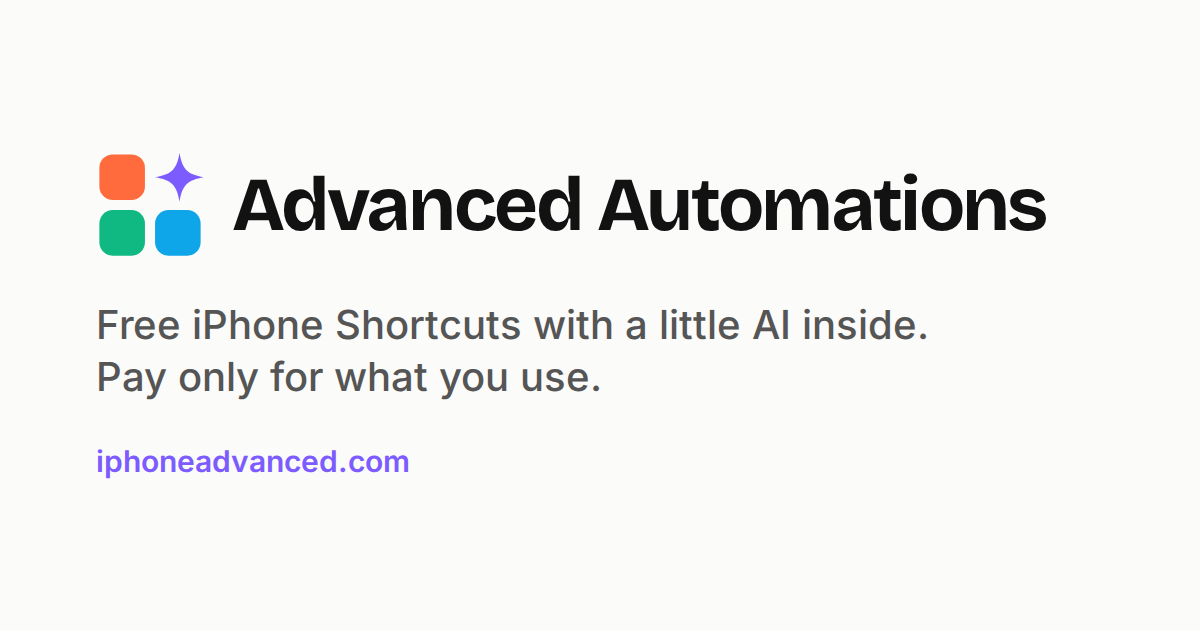
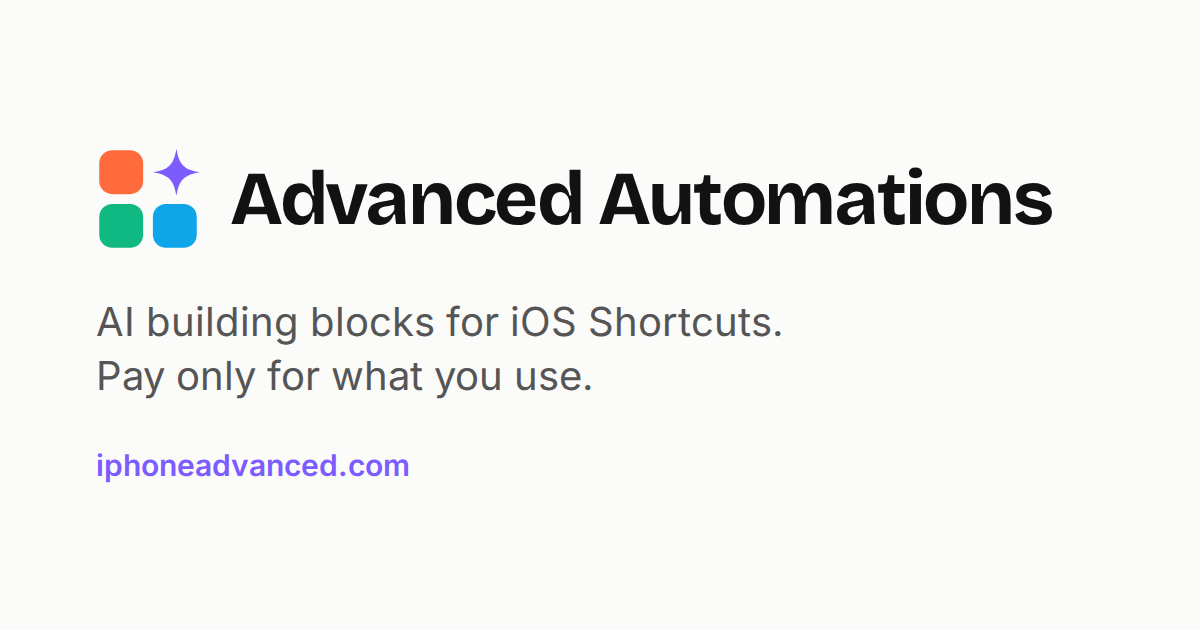
Lead marketing with AI building blocks for iOS Shortcuts
Homepage hero, sections, nav, meta and OG image now pitch the six blocks
first, with recipes showing how they snap together and the ready-made
shortcuts as a secondary section. Catalog splits blocks from ready-made
shortcuts. Also defines the missing .c-blue color used by Pick a Category.

Claude-Session: https://claude.ai/code/session_01DLqfCcLREcWjA8c6SMs42Y

diff --git a/src/views.js b/src/views.js
@@ -42,16 +42,16 @@ export function layout({ title, user, body, active = '' }) {
 <head>
 <meta charset="utf-8">
 <meta name="viewport" content="width=device-width, initial-scale=1">
-<title>${e(title ? `${title} · Advanced Automations` : 'Advanced Automations: free AI Shortcuts for iPhone')}</title>
-<meta name="description" content="Free iPhone Shortcuts with a little AI inside. Tap Get, add it to the Shortcuts app, and run it from anywhere. No subscription.">
+<title>${e(title ? `${title} · Advanced Automations` : 'Advanced Automations: AI building blocks for iOS Shortcuts')}</title>
+<meta name="description" content="AI building blocks for iOS Shortcuts. Drop Ask AI, Transcribe Audio, Pick a Category and more into any shortcut you build. Free to add, under a cent a run, no subscription.">
 <link rel="icon" href="/favicon.svg" type="image/svg+xml">
 <link rel="apple-touch-icon" href="/apple-touch-icon.png">
 <link rel="manifest" href="/site.webmanifest">
 <meta name="theme-color" content="#fbfbfa">
 <meta property="og:type" content="website">
 <meta property="og:site_name" content="Advanced Automations">
-<meta property="og:title" content="${e(title ? `${title} · Advanced Automations` : 'Advanced Automations: free AI Shortcuts for iPhone')}">
-<meta property="og:description" content="Free iPhone Shortcuts with a little AI inside. Tap Get, add it to the Shortcuts app, and run it from anywhere. No subscription.">
+<meta property="og:title" content="${e(title ? `${title} · Advanced Automations` : 'Advanced Automations: AI building blocks for iOS Shortcuts')}">
+<meta property="og:description" content="AI building blocks for iOS Shortcuts. Drop Ask AI, Transcribe Audio, Pick a Category and more into any shortcut you build. Free to add, under a cent a run, no subscription.">
 <meta property="og:image" content="https://iphoneadvanced.com/og-image.png">
 <meta property="og:image:width" content="1200">
 <meta property="og:image:height" content="630">
@@ -64,7 +64,7 @@ export function layout({ title, user, body, active = '' }) {
   <div class="wrap row">
     <a class="brand" href="/">${LOGO}<span>Advanced Automations</span></a>
     <nav class="nav">
-      ${nav('/automations', 'Shortcuts')}
+      ${nav('/automations', 'Blocks')}
       ${nav('/pricing', 'Pricing')}
       ${user ? `<a class="btn btn-sm" href="/account">Account</a>` : `<a class="btn btn-sm" href="/login">Log in</a>`}
     </nav>
@@ -95,66 +95,111 @@ const tile = (a, extra = '') => `<a class="tile c-${a.color}${extra}" href="/aut
 export const starterCents = (micros) => `${Math.round(micros / 10_000)}¢`;
 const installHref = (a, user) => (user ? `/automations/${a.slug}/install` : `/signup?next=${encodeURIComponent(`/automations/${a.slug}/install`)}`);
 
+const blockChip = (a, note = '') => `<li class="step blk c-${a.color}">${icon(a.icon)}<span>${e(a.name)}${note ? ` <small>${e(note)}</small>` : ''}</span></li>`;
+const plainStep = (label) => `<li class="step">${e(label)}</li>`;
+
+// Example shortcuts built from the blocks, shown on the landing page. Each step is either a
+// built-in Shortcuts action (a string) or [block slug, what you tell it].
+const RECIPES = [
+  { name: 'Sort my inbox', how: 'Share an email and get pinged only when it matters.', steps: ['Receive email from Share Sheet', ['pick-a-category', '"Urgent, Needs reply, FYI"'], 'If Result is Urgent', 'Show Notification'] },
+  { name: 'Receipt to log', how: 'Snap a receipt and keep a running expense note.', steps: ['Take Photo', ['pull-out-details', '"total, date, store"'], 'Get Dictionary Value total', 'Append to Note'] },
+  { name: 'Voice memo to-dos', how: 'Ramble for a minute, keep only the action items.', steps: ['Record Audio', ['transcribe-audio'], ['ask-ai', '"List only the action items"'], 'Create Reminder'] },
+  { name: 'What is this error?', how: 'Back Tap on any screen for a plain answer.', steps: ['Take Screenshot', ['ask-about-image', '"What does this error mean?"'], 'Show Result'] },
+];
+
+const recipeCard = (r) => `
+  <div class="recipe">
+    <h3>${e(r.name)}</h3>
+    <p class="small muted">${e(r.how)}</p>
+    <ol class="steps">${r.steps.map((s) => (Array.isArray(s) ? blockChip(findAutomation(s[0]), s[1]) : plainStep(s))).join('')}</ol>
+  </div>`;
+
 export function landing({ user, starterMicros }) {
-  const [explain, reply, meeting, calories, sum, tone, voice, remind, receipt, translate, scam, brief] = [
-    'explain-this', 'reply-drafter', 'meeting-notes', 'snap-calories', 'summarize-anything', 'tone-shifter',
-    'voice-to-notes', 'smart-reminders', 'receipt-reader', 'translate-selection', 'scam-check', 'morning-brief',
-  ].map(findAutomation);
+  const blocks = AUTOMATIONS.filter((a) => a.block);
+  const ask = findAutomation('ask-ai');
+  const ready = ['meeting-notes', 'reply-drafter', 'snap-calories', 'summarize-anything', 'explain-this', 'scam-check', 'translate-selection', 'receipt-reader'].map(findAutomation);
   return layout({
     user,
     body: `
 <section class="hero wrap">
   <div>
-    <h1>Make your iPhone do the <mark>boring bits.</mark></h1>
-    <p class="lede">Free Shortcuts with a little AI inside. Tap Get, add it to the Shortcuts app, and run it from the Share Sheet, Siri or the Action Button.</p>
+    <h1>AI building blocks for <mark>iOS Shortcuts.</mark></h1>
+    <p class="lede">Drop Ask AI, Transcribe Audio, Pick a Category and more into any shortcut you build. The blocks are free. Each run costs a fraction of a cent.</p>
     <div class="cta">
-      <a class="btn btn-lg" href="#shortcuts">Browse shortcuts</a>
-      <a class="link" href="#how">How it works →</a>
+      <a class="btn btn-lg" href="#blocks">Get the blocks</a>
+      <a class="link" href="#recipes">See what you can build →</a>
     </div>
     ${starterMicros ? `<p class="small muted hero-note">Sign in with Apple and your first ${starterCents(starterMicros)} of AI is on us.</p>` : ''}
   </div>
-  <div class="tiles" aria-label="Featured shortcuts">
-    ${tile(meeting)}${tile(reply, ' tilt-r')}${tile(calories)}
-    ${tile(sum, ' tilt-l')}${tile(voice)}${tile(translate)}
-    <div class="tile tile-result"><div><b>Summarize My Meeting Notes</b>Launch locked for Oct 14. Marcus fixes the pricing page by Friday. Jen drafts the launch email Monday.</div><small>Whisper + Llama 3.3 70B · 2.7¢</small></div>
-    ${tile(explain, ' tilt-r')}
+  <div class="tiles" aria-label="The building blocks">
+    ${blocks.map((a, i) => tile(a, i === 1 ? ' tilt-r' : i === 3 ? ' tilt-l' : '')).join('')}
+    <div class="tile tile-result tile-recipe">
+      <span class="small recipe-label">Your shortcut</span>
+      <ol class="steps">${plainStep('Get Clipboard')}${blockChip(ask, '"Summarize in three lines"')}${plainStep('Show Result')}</ol>
+      <small>${e(MODELS[ask.model].label)} · ~${cents(ask.typicalCost)} a run</small>
+    </div>
   </div>
 </section>
 
-<section class="wrap section center" id="shortcuts">
-  <h2>Pick one. It’s on your phone in a minute.</h2>
-  <p class="muted">Every shortcut is free. You only pay for the AI it uses, usually well under a cent a run.</p>
-  <div class="grid">${[meeting, reply, calories, sum, voice, explain, remind, translate, tone, receipt, brief, scam].map(card).join('')}</div>
+<section class="wrap section center" id="blocks">
+  <h2>Six blocks. Any shortcut you can dream up.</h2>
+  <p class="muted">Each block is an action you add with Run Shortcut. Pass it what to work on and your instructions, and it hands the answer to your next step.</p>
+  <div class="grid grid-3">${blocks.map(card).join('')}</div>
+</section>
+
+<section class="wrap section center" id="recipes">
+  <h2>Snap them together.</h2>
+  <p class="muted">A few shortcuts people build in a couple of minutes. Colored steps are blocks; the rest come with the Shortcuts app.</p>
+  <div class="recipes">${RECIPES.map(recipeCard).join('')}</div>
 </section>
 
 <section class="wrap how" id="how">
-  <div><b>1</b><h3>Tap Get</h3><p>Pick a shortcut and sign in with Apple. It takes one tap.</p></div>
-  <div><b>2</b><h3>Add to Shortcuts</h3><p>The Shortcuts app asks for your key. We’ve already copied it, so just paste.</p></div>
+  <div><b>1</b><h3>Get the blocks</h3><p>Tap Get on the ones you want and sign in with Apple. Each block gets its own key, already copied.</p></div>
+  <div><b>2</b><h3>Drop them in</h3><p>In any shortcut, add Run Shortcut and pick a block. Pass it a List: what to work on, then your instructions.</p></div>
   <div><b>3</b><h3>Run it anywhere</h3><p>Share Sheet, Back Tap, Action Button or Siri. Top up whenever your credit runs low.</p></div>
 </section>
 
+<section class="wrap section center" id="shortcuts">
+  <h2>Rather not build? Grab one ready-made.</h2>
+  <p class="muted">Finished shortcuts with the same AI inside. Add one and run it as is.</p>
+  <div class="grid">${ready.map(card).join('')}</div>
+  <p class="see-all"><a class="link" href="/automations">See everything →</a></p>
+</section>
+
 <section class="wrap stats">
-  <div><b>$0</b><p>for every shortcut, forever</p></div>
+  <div><b>$0</b><p>for every block and shortcut, forever</p></div>
   <div><b>${starterMicros ? starterCents(starterMicros) : '&lt;1¢'}</b><p>${starterMicros ? 'free credit when you sign in with Apple or Google' : 'typical cost of one run'}</p></div>
-  <div><b>&lt;1¢</b><p>typical cost of one run, no subscription</p></div>
+  <div><b>0</b><p>subscriptions. Credit never expires.</p></div>
 </section>`,
   });
 }
 
 export function catalog({ user, category }) {
-  const list = category ? AUTOMATIONS.filter((a) => a.category === category) : AUTOMATIONS;
   const chip = (c, label) => `<a class="chip" href="/automations${c ? `?category=${encodeURIComponent(c)}` : ''}"${(category || '') === c ? ' aria-current="true"' : ''}>${label}</a>`;
+  const grid = (list, extra = '') => `<div class="grid${extra}">${list.map(card).join('')}</div>`;
+  const body = category
+    ? `<section class="wrap">${grid(AUTOMATIONS.filter((a) => a.category === category))}</section>`
+    : `<section class="wrap">
+  <h2 class="cat-h">Building blocks</h2>
+  <p class="muted">Add them to your own shortcuts with Run Shortcut.</p>
+  ${grid(AUTOMATIONS.filter((a) => a.block), ' grid-3')}
+</section>
+<section class="wrap section-sm">
+  <h2 class="cat-h">Ready-made shortcuts</h2>
+  <p class="muted">Finished shortcuts you can run as is.</p>
+  ${grid(AUTOMATIONS.filter((a) => !a.block))}
+</section>`;
   return layout({
-    title: 'Shortcuts',
+    title: 'Blocks',
     user,
     active: '/automations',
     body: `
 <section class="wrap page-head center">
-  <h1>Shortcuts</h1>
-  <p class="lede">All free. Tap one, then Add to Shortcuts. You only pay for the AI each run uses.</p>
+  <h1>AI blocks for Shortcuts</h1>
+  <p class="lede">All free. Drop a block into any shortcut you build, or grab a ready-made one. You only pay for the AI each run uses.</p>
   <div class="chips">${chip('', 'All')}${CATEGORIES.map((c) => chip(c, c)).join('')}</div>
 </section>
-<section class="wrap"><div class="grid">${list.map(card).join('')}</div></section>`,
+${body}`,
   });
 }
 
@@ -179,7 +224,7 @@ export function automationDetail({ user, a, apiUrl, starterMicros }) {
     active: '/automations',
     body: `
 <section class="wrap detail">
-  <a class="link small" href="/automations">← All shortcuts</a>
+  <a class="link small" href="/automations">← ${a.block ? 'All blocks' : 'All blocks and shortcuts'}</a>
   <div class="detail-head c-${a.color}">
     <span class="big-ic">${icon(a.icon)}</span>
     <div class="grow">
@@ -289,11 +334,11 @@ export function pricing({ user }) {
     body: `
 <section class="wrap page-head center">
   <h1>Simple pricing</h1>
-  <p class="lede">Automations are free. AI usage comes out of a balance you top up. No subscription, and credit never expires.</p>
+  <p class="lede">Every block and shortcut is free. AI usage comes out of a balance you top up. No subscription, and credit never expires.</p>
 </section>
 <section class="wrap narrow">
   <div class="stats">
-    <div><b>$0</b><p>for every automation</p></div>
+    <div><b>$0</b><p>for every block</p></div>
     <div><b>&lt;1¢</b><p>typical run</p></div>
     <div><b>$5</b><p>smallest top-up</p></div>
   </div>
@@ -333,7 +378,7 @@ export function authPage({ mode, error, email = '', next = '', providers = [], s
   <div class="auth-tiles" aria-hidden="true">${(getting ? [getting] : AUTOMATIONS.slice(0, 4)).map((a) => `<span class="mini c-${a.color}">${icon(a.icon)}</span>`).join('')}</div>
   <form class="auth-card" method="post" action="/${mode}">
     <h1>${getting ? `Get ${e(getting.name)}` : isLogin ? 'Welcome back' : 'Create your account'}</h1>
-    <p class="muted">${getting ? `Sign in once and it’s yours.${credit}` : isLogin ? 'Log in to manage your balance and shortcuts.' : `Every shortcut is free.${credit}`}</p>
+    <p class="muted">${getting ? `Sign in once and it’s yours.${credit}` : isLogin ? 'Log in to manage your balance and blocks.' : `Every block and shortcut is free.${credit}`}</p>
     ${error ? `<p class="alert" role="alert">${e(error)}</p>` : ''}${social}
     <input type="hidden" name="next" value="${e(next)}">
     <label>Email<input name="email" type="email" autocomplete="email" required value="${e(email)}"></label>
@@ -358,7 +403,7 @@ export function account({ user, keys, history, linked = [], newKey, notice, bill
       <span class="mini c-violet">${icon('key')}</span>
       <div class="grow"><strong>${e(k.name)}</strong><div class="small muted">${e(k.prefix)}… · created ${date(k.created_at)}${k.last_used_at ? ` · last used ${date(k.last_used_at)}` : ''}</div></div>
       <form method="post" action="/account/keys/${k.id}/revoke"><input type="hidden" name="csrf" value="${e(user.csrf)}"><button class="btn btn-soft btn-sm" type="submit">Revoke</button></form>
-    </li>`).join('') : '<li class="muted small empty">Nothing added yet. <a href="/automations">Browse shortcuts</a> and tap Get.</li>';
+    </li>`).join('') : '<li class="muted small empty">Nothing added yet. <a href="/automations">Browse blocks</a> and tap Get.</li>';
   const historyRows = history.length ? history.map((h) => `
     <tr><td>${date(h.created_at)}</td><td>${e(h.description)}</td><td class="num ${h.amount_micros > 0 ? 'pos' : ''}">${h.amount_micros > 0 ? '+' : '−'}${formatUsd(Math.abs(h.amount_micros), Math.abs(h.amount_micros) < 10_000 ? 4 : 2)}</td></tr>`).join('')
     : '<tr><td colspan="3" class="muted small">Nothing yet. Top up to get started.</td></tr>';
@@ -411,5 +456,5 @@ export function account({ user, keys, history, linked = [], newKey, notice, bill
 
 export const notFound = ({ user }) => layout({
   title: 'Not found', user,
-  body: '<section class="wrap page-head center"><h1>Nothing here</h1><p class="lede">That page does not exist. <a href="/automations">Browse shortcuts</a>.</p></section>',
+  body: '<section class="wrap page-head center"><h1>Nothing here</h1><p class="lede">That page does not exist. <a href="/automations">Browse blocks</a>.</p></section>',
 });

diff --git a/public/styles.css b/public/styles.css
@@ -39,7 +39,7 @@
 /* Automation colors: one class sets --c for tiles, cards and icons. */
 .c-orange { --c: #ff6b3d; } .c-violet { --c: #7c5cff; } .c-green { --c: #10b981; } .c-yellow { --c: #f5b400; }
 .c-pink { --c: #ec4899; } .c-sky { --c: #0ea5e9; } .c-amber { --c: #f97316; } .c-indigo { --c: #6366f1; }
-.c-teal { --c: #14b8a6; } .c-red { --c: #ef4444; } .c-lime { --c: #65a30d; }
+.c-teal { --c: #14b8a6; } .c-red { --c: #ef4444; } .c-lime { --c: #65a30d; } .c-blue { --c: #3b82f6; }
 
 * { box-sizing: border-box; }
 html { -webkit-text-size-adjust: 100%; }
@@ -113,10 +113,28 @@ mark { background: var(--highlight); color: inherit; border-radius: 14px; paddin
 .tile-result { grid-column: span 2; aspect-ratio: auto; background: var(--night); box-shadow: inset 0 0 0 1px var(--night-edge); font: 500 0.95rem/1.45 "Inter", sans-serif; }
 .tile-result b { display: block; font: 650 1.15rem var(--display); margin-bottom: 6px; }
 .tile-result small { opacity: 0.6; }
+.tile-recipe { grid-column: 1 / -1; gap: 12px; }
+.tile-recipe .recipe-label { opacity: 0.6; font-weight: 600; }
+.tile-recipe .step { background: rgb(255 255 255 / 0.1); }
+.tile-recipe .step.blk { background: var(--c); }
+
+/* Recipes: built-in actions in grey, blocks in their own color */
+.steps { list-style: none; margin: 0; padding: 0; display: grid; gap: 8px; }
+.step { display: flex; align-items: center; gap: 10px; padding: 10px 14px; border-radius: 14px; background: var(--bg); font: 600 0.92rem/1.3 "Inter", sans-serif; text-align: left; }
+.step.blk { background: var(--c); color: #fff; }
+.step svg { width: 18px; height: 18px; flex: none; }
+.step small { font-weight: 500; opacity: 0.85; }
+.recipes { display: grid; grid-template-columns: repeat(2, minmax(0, 1fr)); gap: 16px; margin-top: 36px; text-align: left; }
+.recipe { background: var(--soft); border-radius: 26px; padding: 24px; }
+.recipe h3 { margin: 0 0 4px; }
+.recipe p { margin: 0 0 16px; }
+.cat-h { margin: 24px 0 4px; }
+.section-sm { padding-top: 56px; }
 
 /* Sections */
 .section { padding-top: 120px; }
 .grid { display: grid; grid-template-columns: repeat(auto-fill, minmax(min(250px, 100%), 1fr)); gap: 16px; margin-top: 36px; text-align: left; }
+.grid-3 { grid-template-columns: repeat(3, minmax(0, 1fr)); }
 .card { display: flex; flex-direction: column; min-height: 240px; padding: 22px; border-radius: 26px; background: color-mix(in srgb, var(--c) var(--tint), var(--bg)); text-decoration: none; transition: transform 0.2s ease, background 0.2s ease; }
 .card:hover { transform: translateY(-3px); background: color-mix(in srgb, var(--c) calc(var(--tint) + 6%), var(--bg)); }
 .ic, .mini { display: grid; place-items: center; width: 48px; height: 48px; border-radius: 15px; background: var(--c); color: #fff; margin-bottom: 18px; flex: none; }
@@ -218,6 +236,8 @@ input:focus { outline: 3px solid color-mix(in srgb, #7c5cff 45%, transparent); o
   .hero, .detail-grid, .account-grid { grid-template-columns: minmax(0, 1fr); }
   .hero { padding-top: 24px; gap: 40px; }
   .how, .stats { grid-template-columns: 1fr; }
+  .recipes { grid-template-columns: minmax(0, 1fr); }
+  .grid-3 { grid-template-columns: repeat(2, minmax(0, 1fr)); }
   .how { padding: 32px; gap: 28px; }
   .grid { grid-template-columns: repeat(2, minmax(0, 1fr)); }
   .card { min-height: 0; }
@@ -277,3 +297,4 @@ input:focus { outline: 3px solid color-mix(in srgb, #7c5cff 45%, transparent); o
   .get-row .btn { width: 100%; }
   .install-card { padding: 28px 20px; }
 }
+.see-all { margin: 28px 0 40px; }

diff --git a/README.md b/README.md
@@ -1,10 +1,10 @@
 # Advanced Automations
 
-Free iPhone Shortcuts automations, with pay-as-you-go AI credit sold at a markup. Domain: iphoneadvanced.com.
+AI building blocks for iOS Shortcuts (Ask AI, Transcribe Audio, Pick a Category and more), plus ready-made shortcuts, with pay-as-you-go AI credit sold at a markup. Domain: iphoneadvanced.com.
 
 Runs on Cloudflare Workers: [Hono](https://hono.dev) for routing, D1 for the database, the Workers AI binding for inference, and Workers static assets for `public/`.
 
-- **Pages:** landing (`/`), catalog (`/automations`), shortcut detail, install page (`/automations/<slug>/install`), pricing, login, signup, account.
+- **Pages:** landing (`/`), catalog of blocks and shortcuts (`/automations`), detail, install page (`/automations/<slug>/install`), pricing, login, signup, account.
 - **Getting a shortcut:** Get → sign in (Google or Apple accounts start with $0.25 of credit, `STARTER_CREDIT_USD` to change) → the install page makes a key for that shortcut, copies it and opens `shortcuts://import-shortcut` with the signed file. Shortcuts asks for the key once, as an import question.
 - **Login:** email and password, PBKDF2-SHA256 hashes (Web Crypto, 100k iterations), server-side sessions in an httpOnly cookie, CSRF tokens on every form, rate-limited login.
 - **Payments:** Stripe Checkout top-ups ($5, $10, $25, $50). Credit is added by the `checkout.session.completed` webhook and again on the success redirect, both idempotent.
